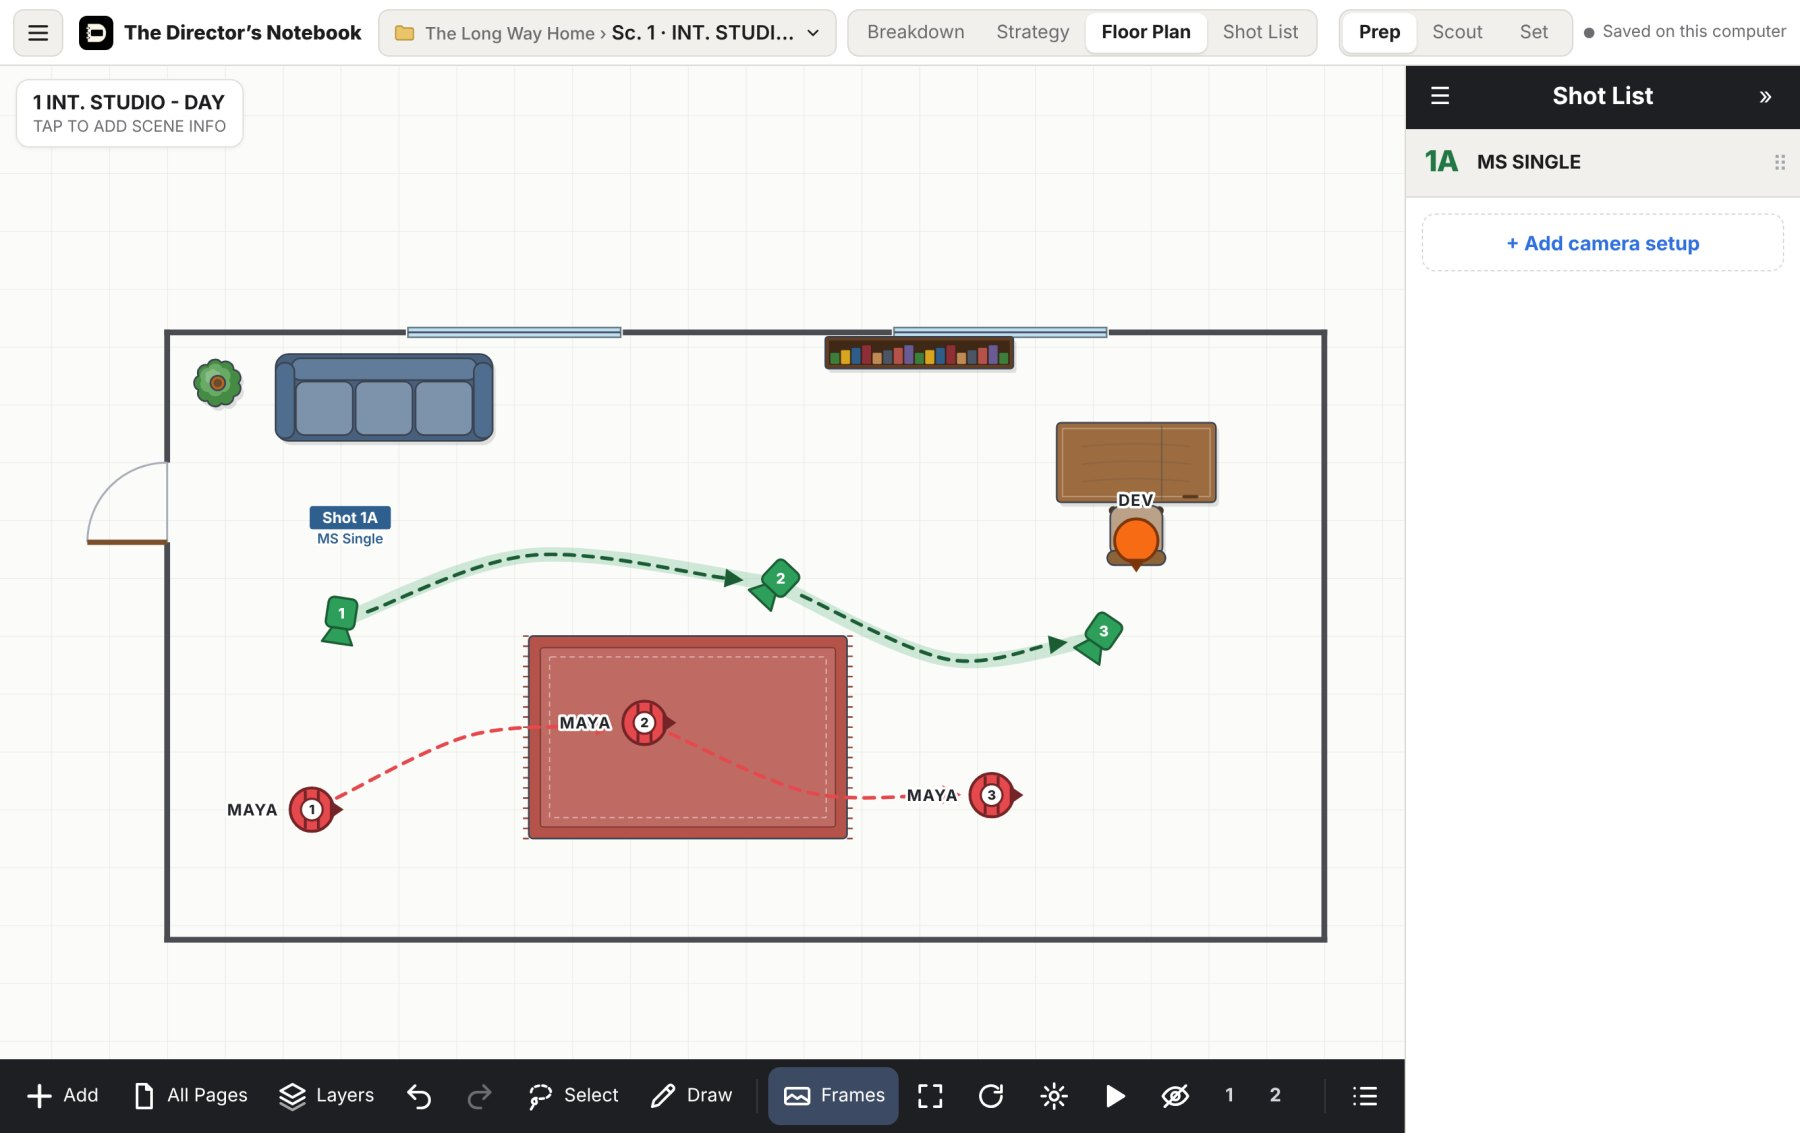
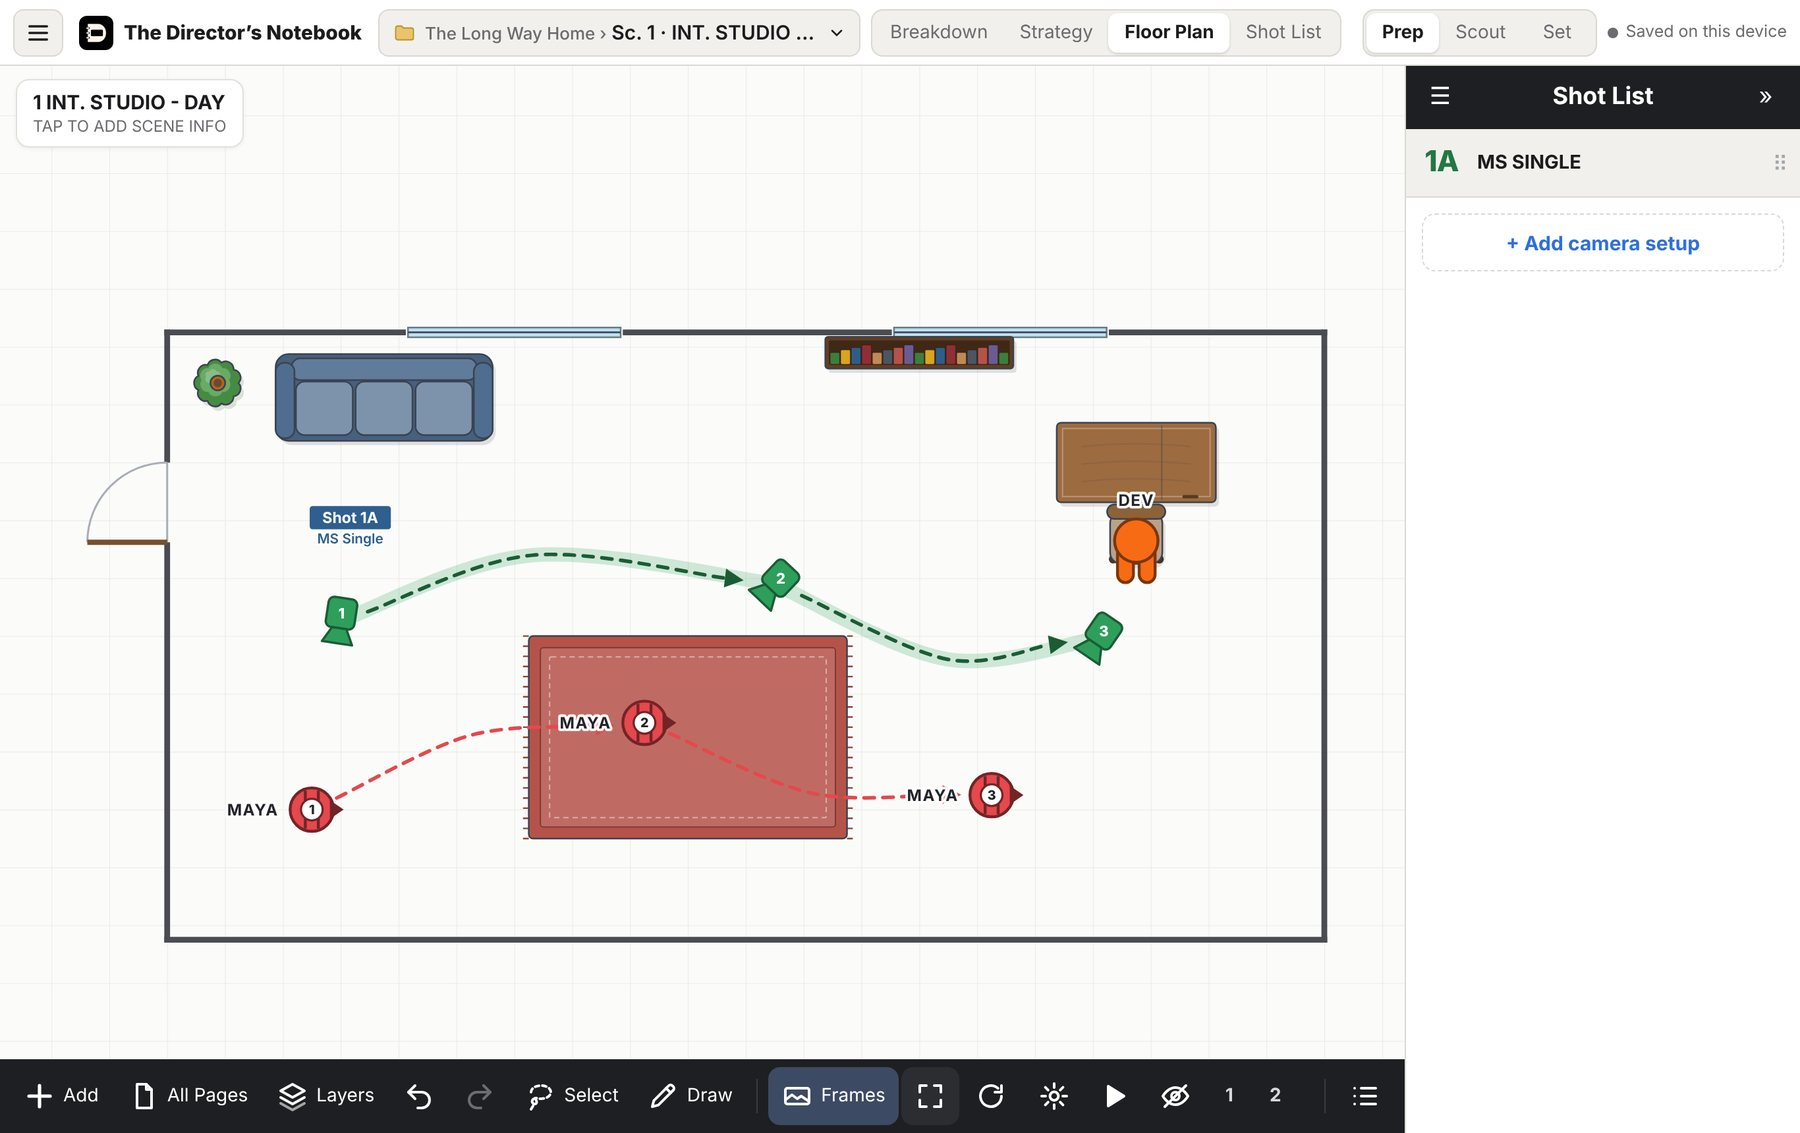
Front page: a link from Who made it to lanreolabisi.com; the Prep and Set pictures are the retaken ones
Claude-Session: https://claude.ai/code/session_01SjDUHhukRgDR2et7EoCUxc

Changed region(s): [[0.4667, 0.0, 0.9956, 0.0618], [0.5911, 0.4325, 0.6533, 0.4634], [0.6222, 0.4943, 0.6533, 0.5252]]

diff --git a/index.html b/index.html
@@ -84,6 +84,7 @@ tbody tr{border-top:1px solid #e4e0d5}td:first-child{font-weight:800;white-space
 .maker h2{margin-top:14px;font-size:clamp(38px,5.4vw,76px);line-height:.96;letter-spacing:-.045em;color:#fff}
 .bio{margin-top:44px;border-top:1px solid var(--rule);padding-top:20px}.bio b{display:block;font-weight:800;font-size:19px;color:#fff}
 .bio p{margin-top:10px;font-size:15.5px;line-height:1.6;color:rgba(252,247,233,.82)}
+.bio p.mo{margin-top:16px;font-size:14.5px;font-weight:600}.bio p.mo a{color:#fff;text-decoration:none;border-bottom:1px solid rgba(252,247,233,.45);padding-bottom:2px}.bio p.mo a:hover{border-bottom-color:#fff}
 .note{font-size:22px;line-height:1.5;color:rgba(252,247,233,.94)}.note.k{margin-top:22px;color:#fff;font-weight:600}
 .old{margin-top:36px;padding-top:28px;border-top:1px solid var(--rule);font-size:18px;line-height:1.6;color:rgba(252,247,233,.86)}
 .yt{display:block;position:relative;width:100%;aspect-ratio:16/9;margin:26px 0 0;border-radius:10px;border:1px solid rgba(252,247,233,.22);background:#000;color:var(--cream);overflow:hidden;text-decoration:none}
@@ -179,7 +180,7 @@ footer a{font-weight:700;color:#fff;text-decoration:none}footer .w.pv{display:bl
 <section class="dark maker" id="maker"><div class="w in">
 <div class="a"><div class="caps">Who made it</div>
 <h2>I built this for my own prep.</h2>
-<div class="bio"><b>Lanre Olabisi</b><p>Lanre Olabisi wrote, directed and produced his first two features, <i>August the First</i> and <i>Somewhere in the Middle</i>. The first earned a Gotham Award nomination and played South by Southwest and Karlovy Vary, and both went on to Netflix. He now directs network television, including <i>The Rookie</i> and <i>The Rookie: Feds</i>, and spent fourteen years teaching directing at the New York Film Academy.</p></div></div>
+<div class="bio"><b>Lanre Olabisi</b><p>Lanre Olabisi wrote, directed and produced his first two features, <i>August the First</i> and <i>Somewhere in the Middle</i>. The first earned a Gotham Award nomination and played South by Southwest and Karlovy Vary, and both went on to Netflix. He now directs network television, including <i>The Rookie</i> and <i>The Rookie: Feds</i>, and spent fourteen years teaching directing at the New York Film Academy.</p><p class="mo"><a href="https://www.lanreolabisi.com" target="_blank" rel="noopener">See his film and television work at lanreolabisi.com&nbsp;&nbsp;→</a></p></div></div>
 <div class="b">
 <p class="note">I direct television and film. Every scene I prep ends up in four places: the breakdown, how I mean to shoot it, the floor plan and the shot list. Change one and the others go stale. I wanted one notebook where a camera on the plan is already a shot on the list. So I made it.</p>
 <p class="note k">It was built during real prep, one episode at a time. Everything in it is there because a scene needed it.</p>

diff --git a/404.html b/404.html
@@ -80,6 +80,7 @@ tbody tr{border-top:1px solid #e4e0d5}td:first-child{font-weight:800;white-space
 .maker h2{margin-top:14px;font-size:clamp(38px,5.4vw,76px);line-height:.96;letter-spacing:-.045em;color:#fff}
 .bio{margin-top:44px;border-top:1px solid var(--rule);padding-top:20px}.bio b{display:block;font-weight:800;font-size:19px;color:#fff}
 .bio p{margin-top:10px;font-size:15.5px;line-height:1.6;color:rgba(252,247,233,.82)}
+.bio p.mo{margin-top:16px;font-size:14.5px;font-weight:600}.bio p.mo a{color:#fff;text-decoration:none;border-bottom:1px solid rgba(252,247,233,.45);padding-bottom:2px}.bio p.mo a:hover{border-bottom-color:#fff}
 .note{font-size:22px;line-height:1.5;color:rgba(252,247,233,.94)}.note.k{margin-top:22px;color:#fff;font-weight:600}
 .old{margin-top:36px;padding-top:28px;border-top:1px solid var(--rule);font-size:18px;line-height:1.6;color:rgba(252,247,233,.86)}
 .yt{display:block;position:relative;width:100%;aspect-ratio:16/9;margin:26px 0 0;border-radius:10px;border:1px solid rgba(252,247,233,.22);background:#000;color:var(--cream);overflow:hidden;text-decoration:none}
